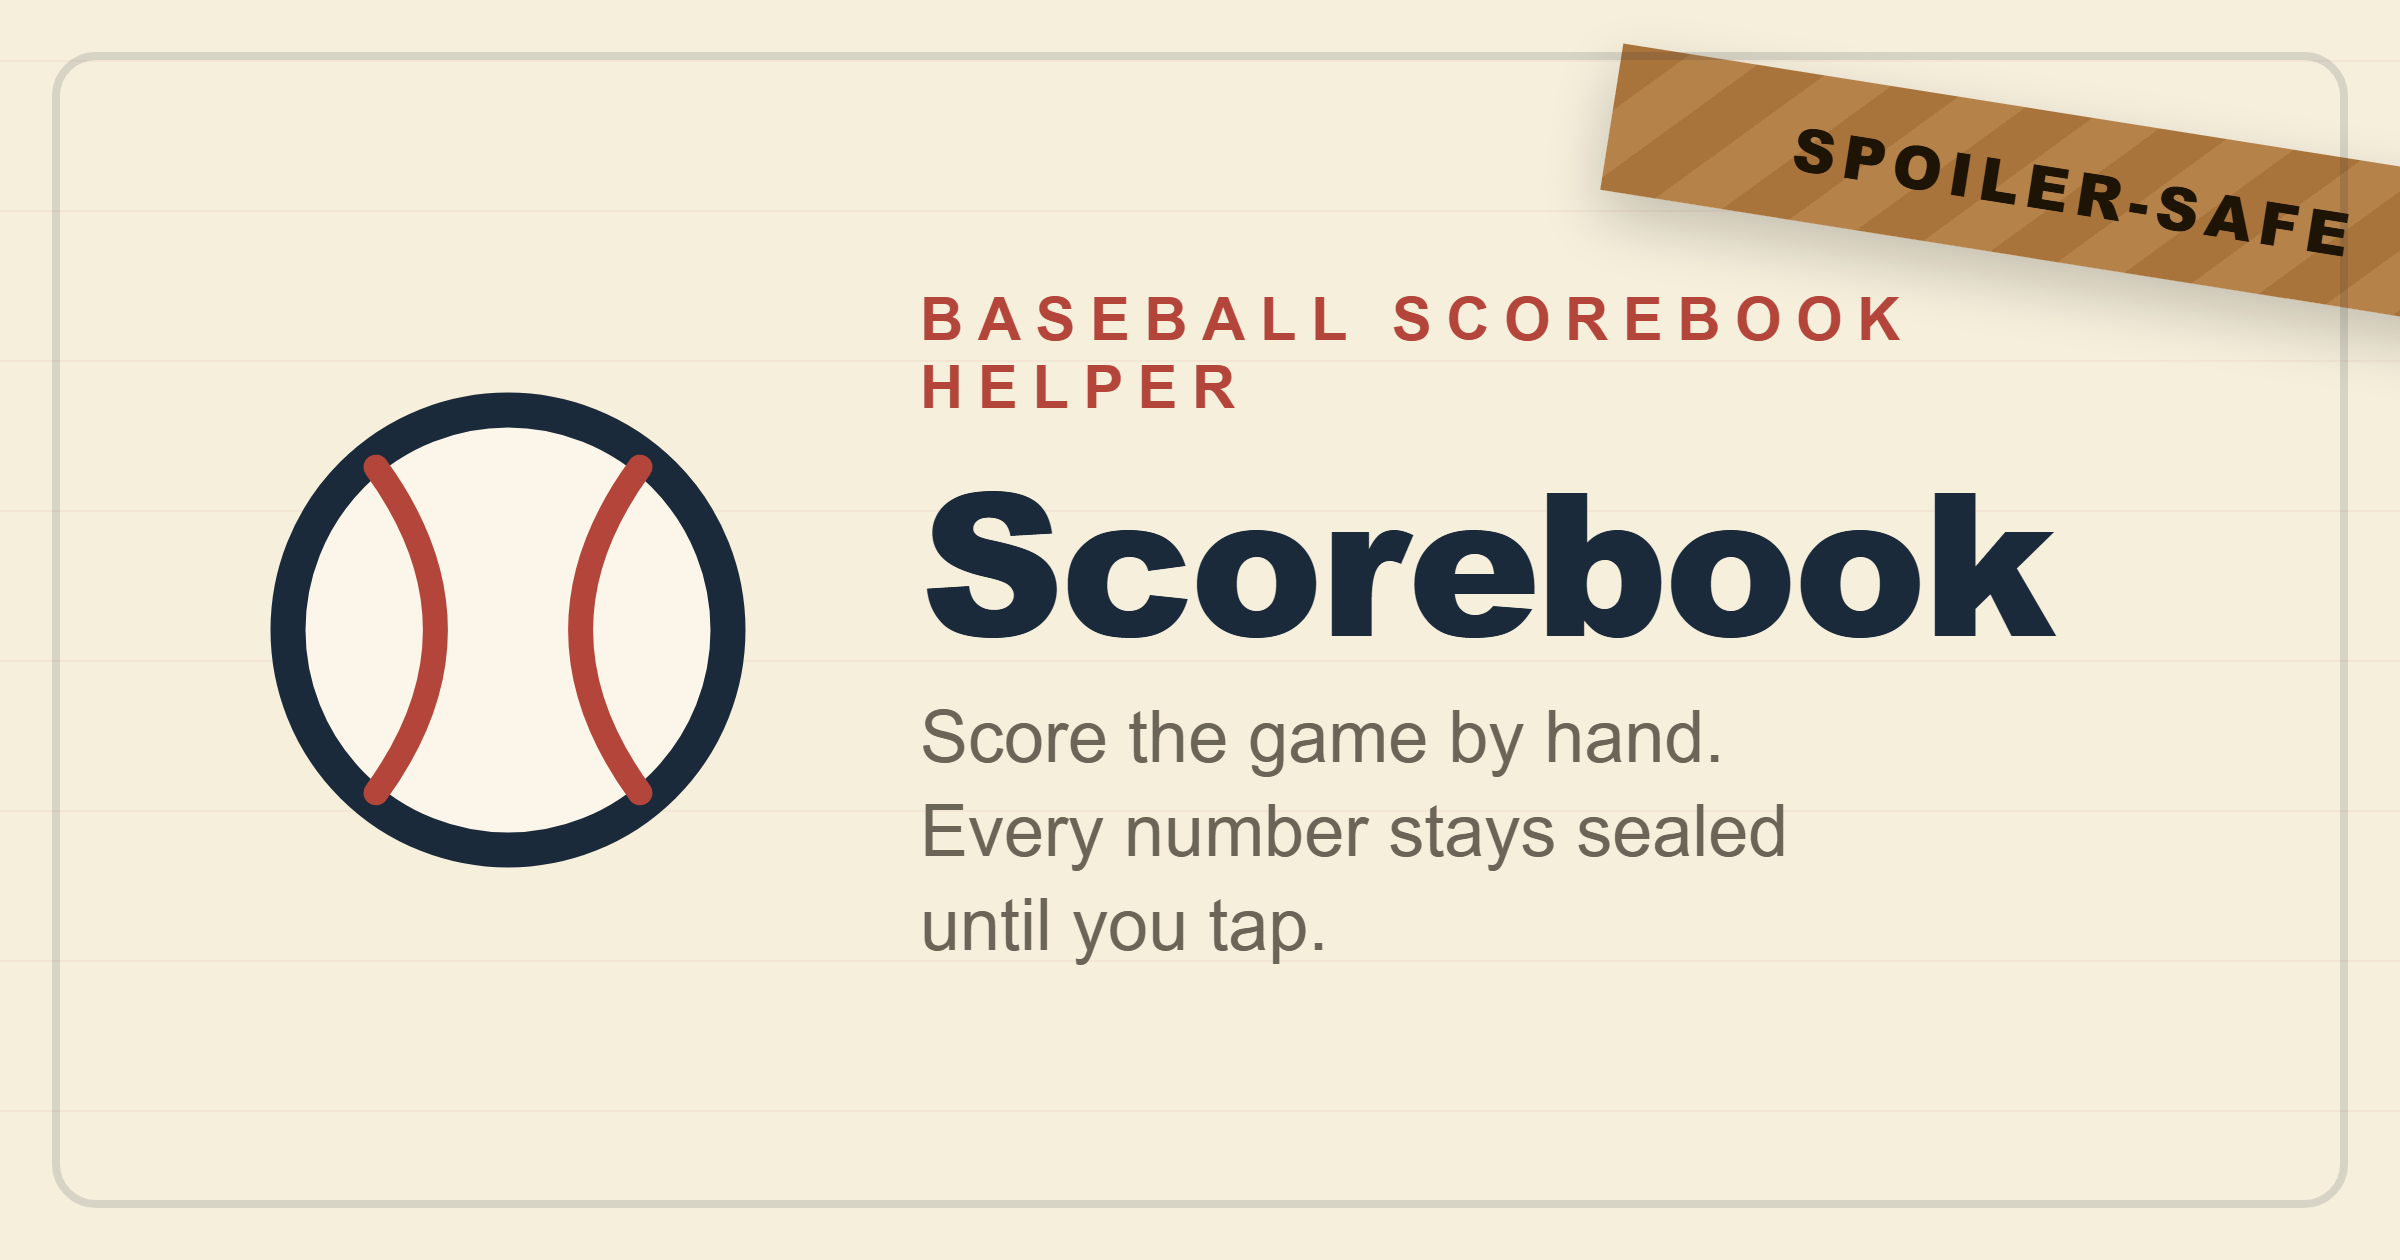
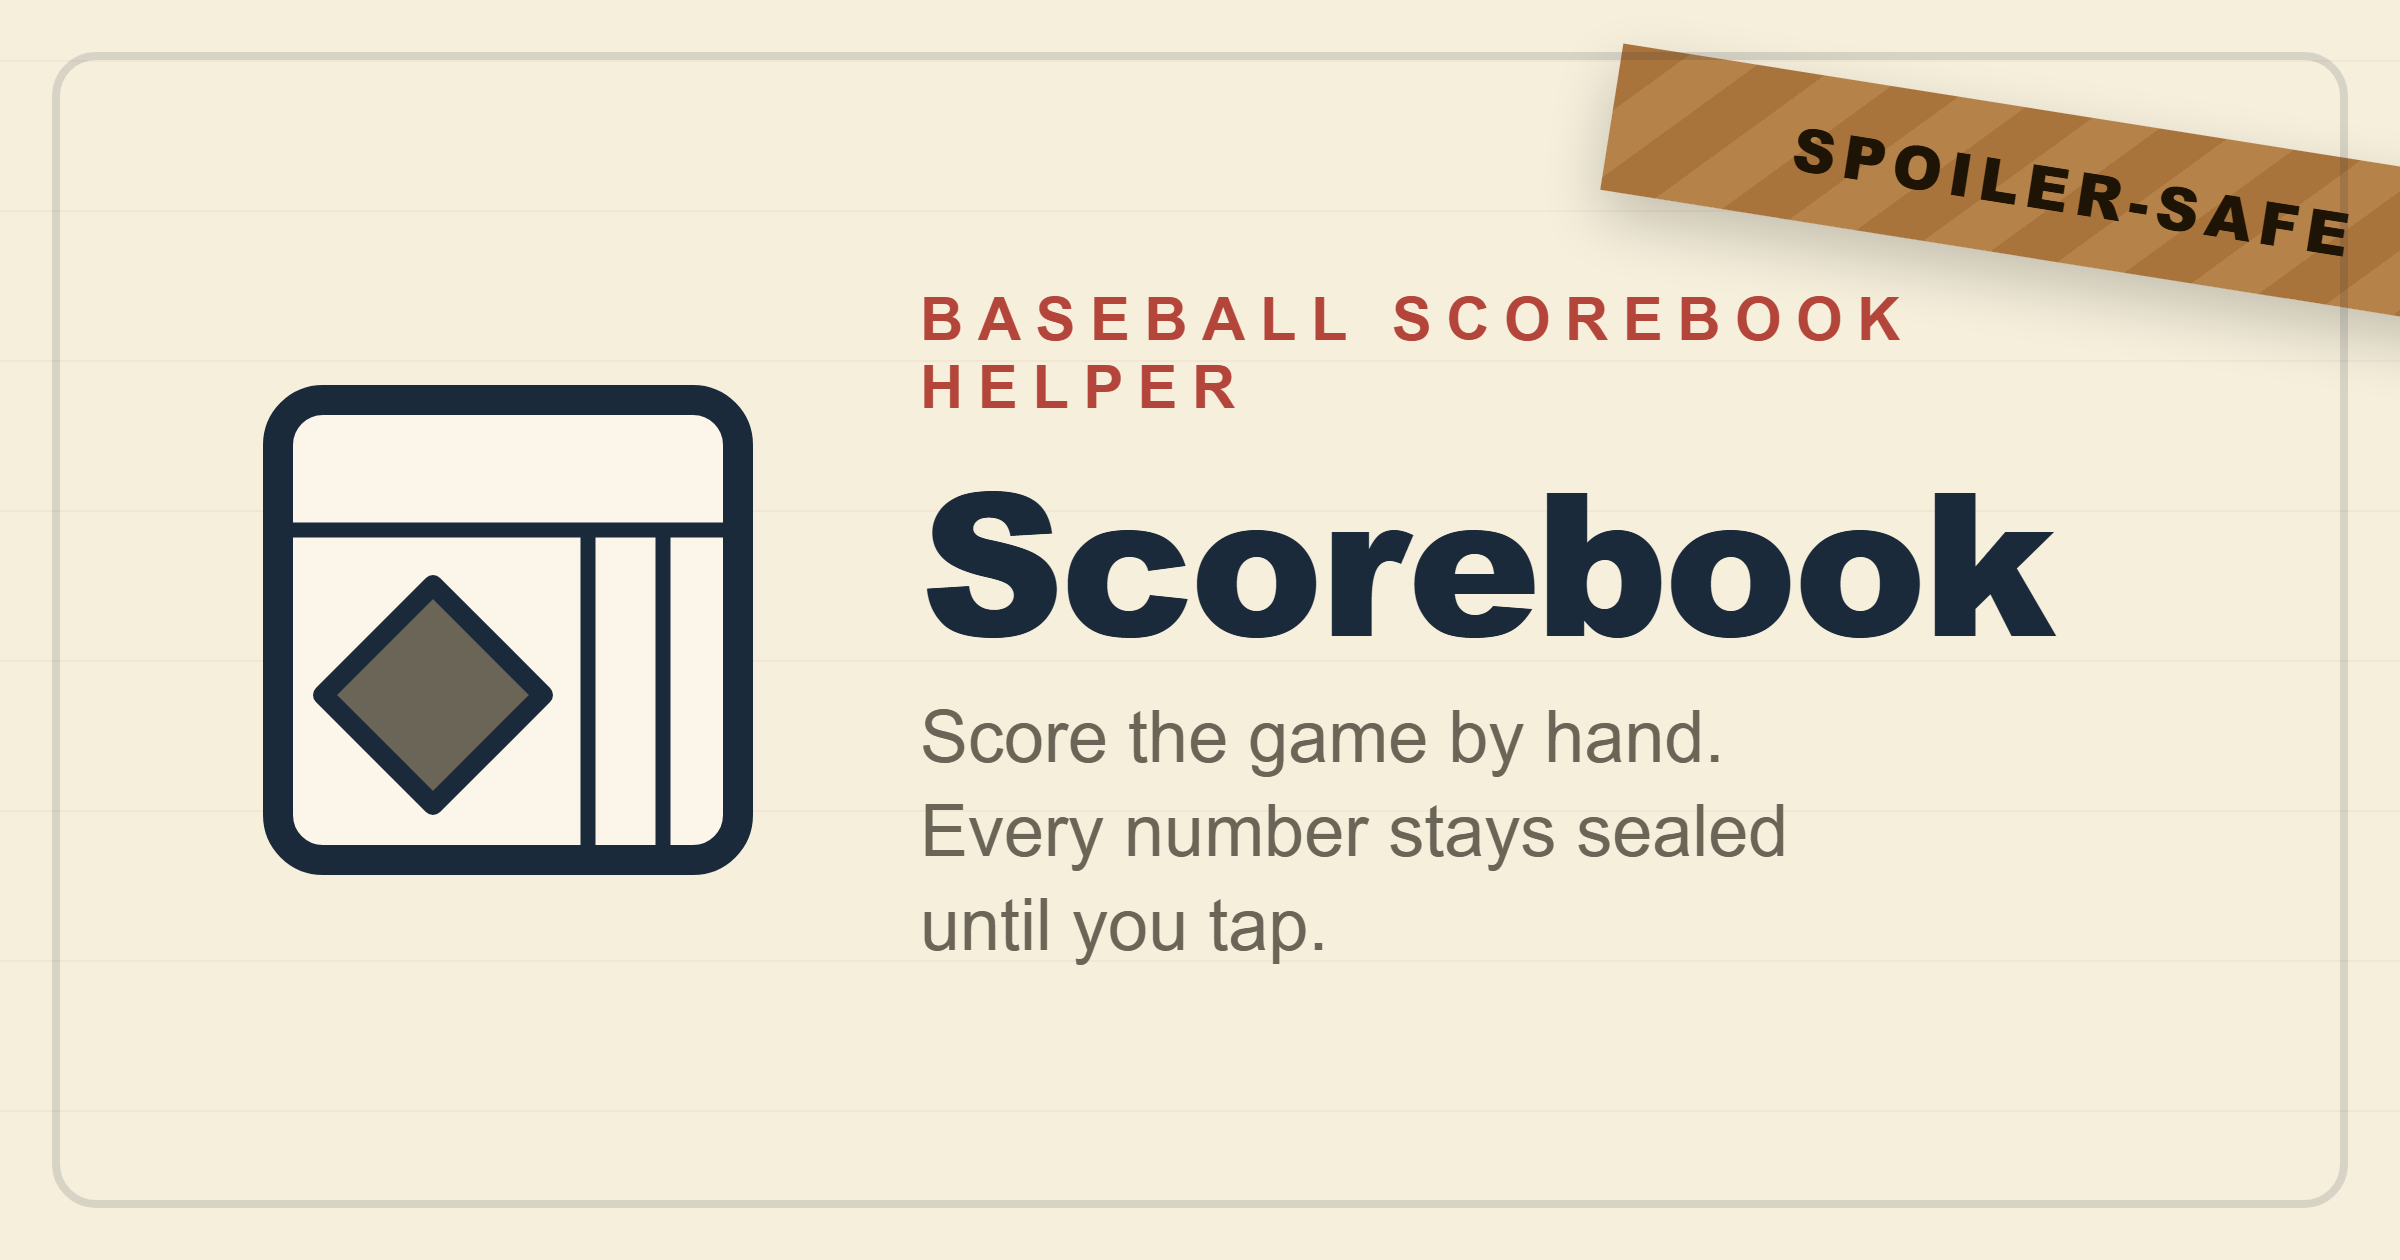
Replace baseball brand glyph with the scorebook-cell mark
Retire BaseballMark (cream ball + figure-eight seams) for ScorebookMark:
a vector scorebook cell with its infield diamond shaded in pencil,
echoing the new app icon. Redrawn as vector (not the photo) so it stays
crisp and legible down to the 14px footer mark; the `simplified` variant
(bordered cell + solid diamond) covers the small header/footer uses, and
the full variant adds the header bar + scoring columns for large format.
Swap the header/footer/slate call sites and the link-preview card, and
regenerate og-image.png.

Changed region(s): [[0.0938, 0.2786, 0.3125, 0.7119]]

diff --git a/src/components/ScorebookMark.jsx b/src/components/ScorebookMark.jsx
@@ -1,0 +1,48 @@
+// ScorebookMark — the app's brand mark: a hand-scored scorebook cell with its
+// infield diamond shaded in pencil. It echoes the app icon (public/icons/icon.svg
+// is a photo of the same drawn cell) and anchors the site identity next to the
+// "Scorebook" wordmark. Drawn as vector so it stays crisp — and legible — down to
+// the 14px footer mark, where a scan of the sketch would smudge.
+//
+// Below ~24px pass `simplified` to drop the cell's inner rules (the header bar
+// and right-hand scoring columns) and keep just the bordered cell and its solid
+// diamond centered, so the mark still reads clean at the small header/footer sizes
+// (every current placement uses `simplified`). The full variant is the richer,
+// large-format mark for the link-preview card and any future hero use.
+export function ScorebookMark({
+  size = 44,
+  ink = 'var(--ink-1)',
+  paper = 'var(--paper-2)',
+  graphite = 'var(--graphite)',
+  simplified = false,
+  ...rest
+}) {
+  // The infield diamond: a square rotated 45°. Centered in the cell when
+  // simplified; nudged down-left in the full variant to sit beside the scoring
+  // columns, matching the sketch's composition.
+  const cx = simplified ? 60 : 45
+  const cy = simplified ? 60 : 73
+  const d = simplified ? 26 : 22
+  const diamond = `${cx},${cy - d} ${cx + d},${cy} ${cx},${cy + d} ${cx - d},${cy}`
+
+  return (
+    <svg width={size} height={size} viewBox="0 0 120 120" role="img" aria-label="Scorebook" {...rest}>
+      <rect
+        x="14" y="14" width="92" height="92" rx="9"
+        fill={paper} stroke={ink} strokeWidth={simplified ? 8 : 6}
+      />
+      {!simplified && (
+        <g stroke={ink} strokeWidth="3">
+          {/* header bar + the two narrow scoring columns down the right side */}
+          <line x1="14" y1="40" x2="106" y2="40" />
+          <line x1="76" y1="40" x2="76" y2="106" />
+          <line x1="91" y1="40" x2="91" y2="106" />
+        </g>
+      )}
+      <polygon
+        points={diamond} fill={graphite} stroke={ink}
+        strokeWidth={simplified ? 6 : 4} strokeLinejoin="round"
+      />
+    </svg>
+  )
+}

diff --git a/scripts/og-image.html b/scripts/og-image.html
@@ -6,8 +6,9 @@
   Source art for the social/link-preview image (Open Graph + Twitter card).
   Rendered to public/og-image.png at 1200×630 by scripts/gen-og-image.mjs.
   Direction "C" — kraft tape on manila paper. Palette lifted verbatim from
-  src/tokens/colors.css; the ball is the BaseballMark glyph (simplified
-  variant, same as public/icons/icon.svg). Edit here, then re-run the script.
+  src/tokens/colors.css; the mark is the ScorebookMark brand glyph (full
+  variant — a scored scorebook cell with its infield diamond). Edit here, then
+  re-run the script.
 -->
 <style>
   :root {
@@ -69,9 +70,13 @@
     <span class="tape">Spoiler-safe</span>
     <span class="ball">
       <svg viewBox="0 0 120 120" aria-hidden="true">
-        <circle cx="60" cy="60" r="44" fill="#FBF6E9" stroke="#1B2A3A" stroke-width="7"/>
-        <path d="M33.6,27.44 Q57.36,60 33.6,92.56" fill="none" stroke="#B4453A" stroke-width="5" stroke-linecap="round"/>
-        <path d="M86.4,27.44 Q62.64,60 86.4,92.56" fill="none" stroke="#B4453A" stroke-width="5" stroke-linecap="round"/>
+        <rect x="14" y="14" width="92" height="92" rx="9" fill="#FBF6E9" stroke="#1B2A3A" stroke-width="6"/>
+        <g stroke="#1B2A3A" stroke-width="3">
+          <line x1="14" y1="40" x2="106" y2="40"/>
+          <line x1="76" y1="40" x2="76" y2="106"/>
+          <line x1="91" y1="40" x2="91" y2="106"/>
+        </g>
+        <polygon points="45,51 67,73 45,95 23,73" fill="#6B6558" stroke="#1B2A3A" stroke-width="4" stroke-linejoin="round"/>
       </svg>
     </span>
     <span class="txt">

diff --git a/src/components/SiteFooter.jsx b/src/components/SiteFooter.jsx
@@ -2,7 +2,7 @@ import { useState } from 'react'
 import { PlayerSearchBox } from './PlayerSearchBox.jsx'
 import { TeamSearchBox } from './TeamSearchBox.jsx'
 import { GameFinderModal } from './GameFinderModal.jsx'
-import { BaseballMark } from './BaseballMark.jsx'
+import { ScorebookMark } from './ScorebookMark.jsx'
 import { useNav } from '../lib/nav.js'
 
 const YEAR = new Date().getFullYear()
@@ -47,7 +47,7 @@ export function SiteFooter({ onShowLogos }) {
 
       <div className="sitefooter__legal">
         <p className="sitefooter__brand">
-          <BaseballMark size={14} simplified />
+          <ScorebookMark size={14} simplified />
           Scorebook Helper
         </p>
         <p>Data via the MLB Stats API. Not affiliated with MLB or any club.</p>

diff --git a/src/components/SiteHeader.jsx b/src/components/SiteHeader.jsx
@@ -1,4 +1,4 @@
-import { BaseballMark } from './BaseballMark.jsx'
+import { ScorebookMark } from './ScorebookMark.jsx'
 import { useNav } from '../lib/nav.js'
 
 // The small "Scorebook" brand mark + wordmark shown atop every screen (except
@@ -14,7 +14,7 @@ export function SiteHeader() {
         onClick={() => navigate('/')}
         aria-label="Back to games"
       >
-        <BaseballMark size={22} simplified />
+        <ScorebookMark size={22} simplified />
         <span className="sitebar__word">Scorebook</span>
       </button>
     </div>

diff --git a/src/screens/GameSelect.jsx b/src/screens/GameSelect.jsx
@@ -7,7 +7,7 @@ import { toApiDate, addDays, humanDate } from '../lib/dates.js'
 import { PINNED_TEAM_ID, SPORT_IDS, LEVELS } from '../lib/teams.js'
 import { GameCard } from '../components/GameCard.jsx'
 import { LevelNav } from '../components/LevelNav.jsx'
-import { BaseballMark } from '../components/BaseballMark.jsx'
+import { ScorebookMark } from '../components/ScorebookMark.jsx'
 import { SiteFooter } from '../components/SiteFooter.jsx'
 
 // The chosen level survives leaving the slate (someone scoring an A+ affiliate
@@ -92,7 +92,7 @@ export function GameSelect({ onPick, onShowLogos }) {
       <div className="slatehead">
         <header className="topbar">
           <h1 className="topbar__title">
-            <BaseballMark size={22} simplified />
+            <ScorebookMark size={22} simplified />
             Scorebook
           </h1>
         </header>